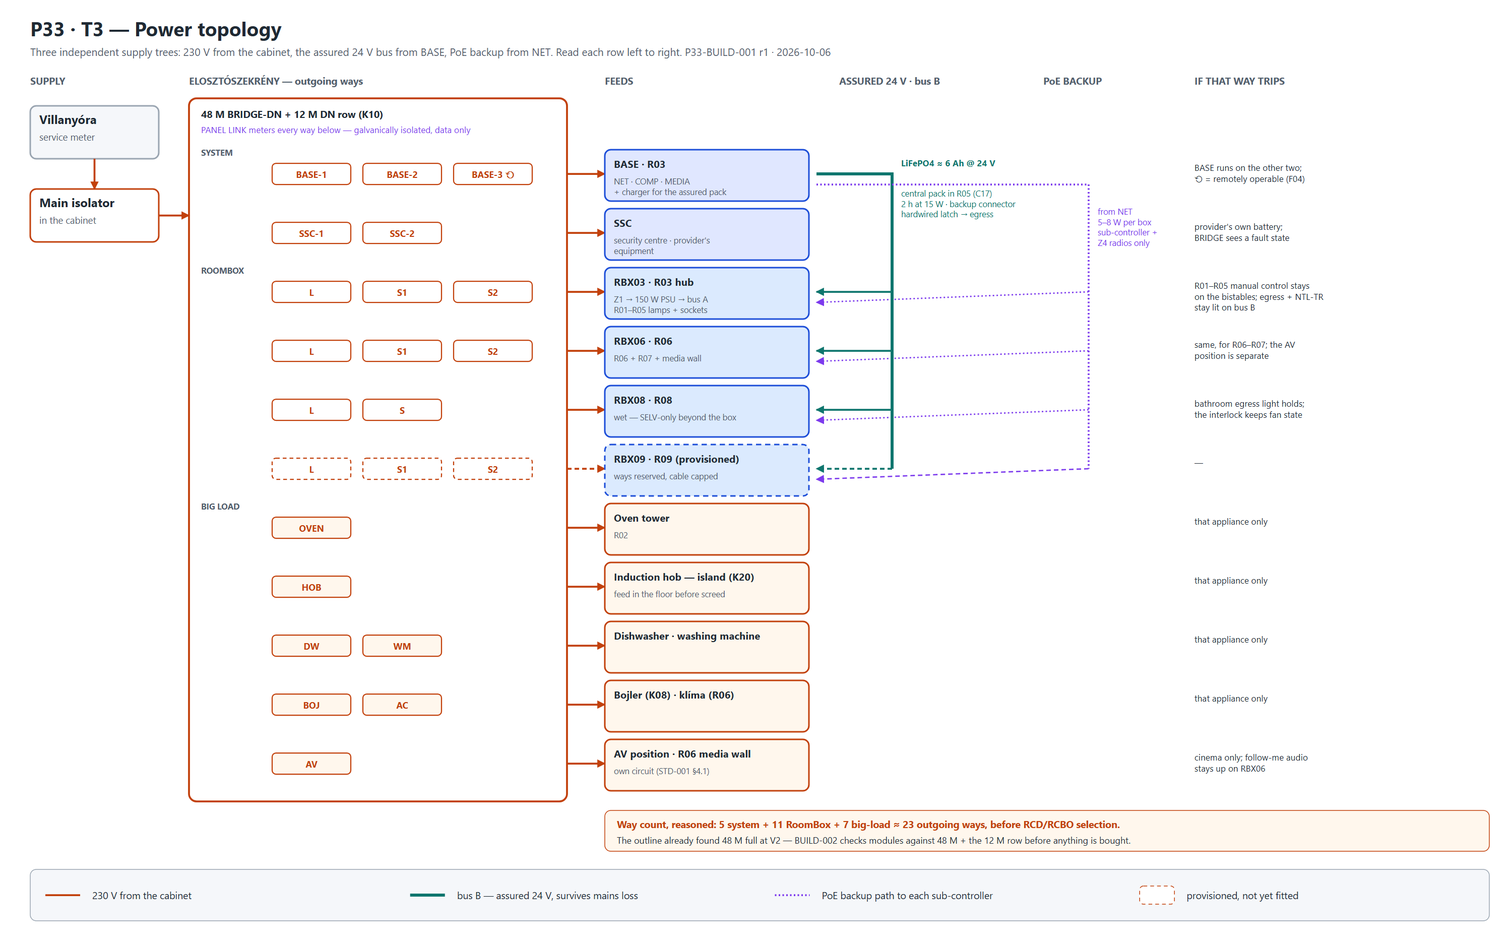
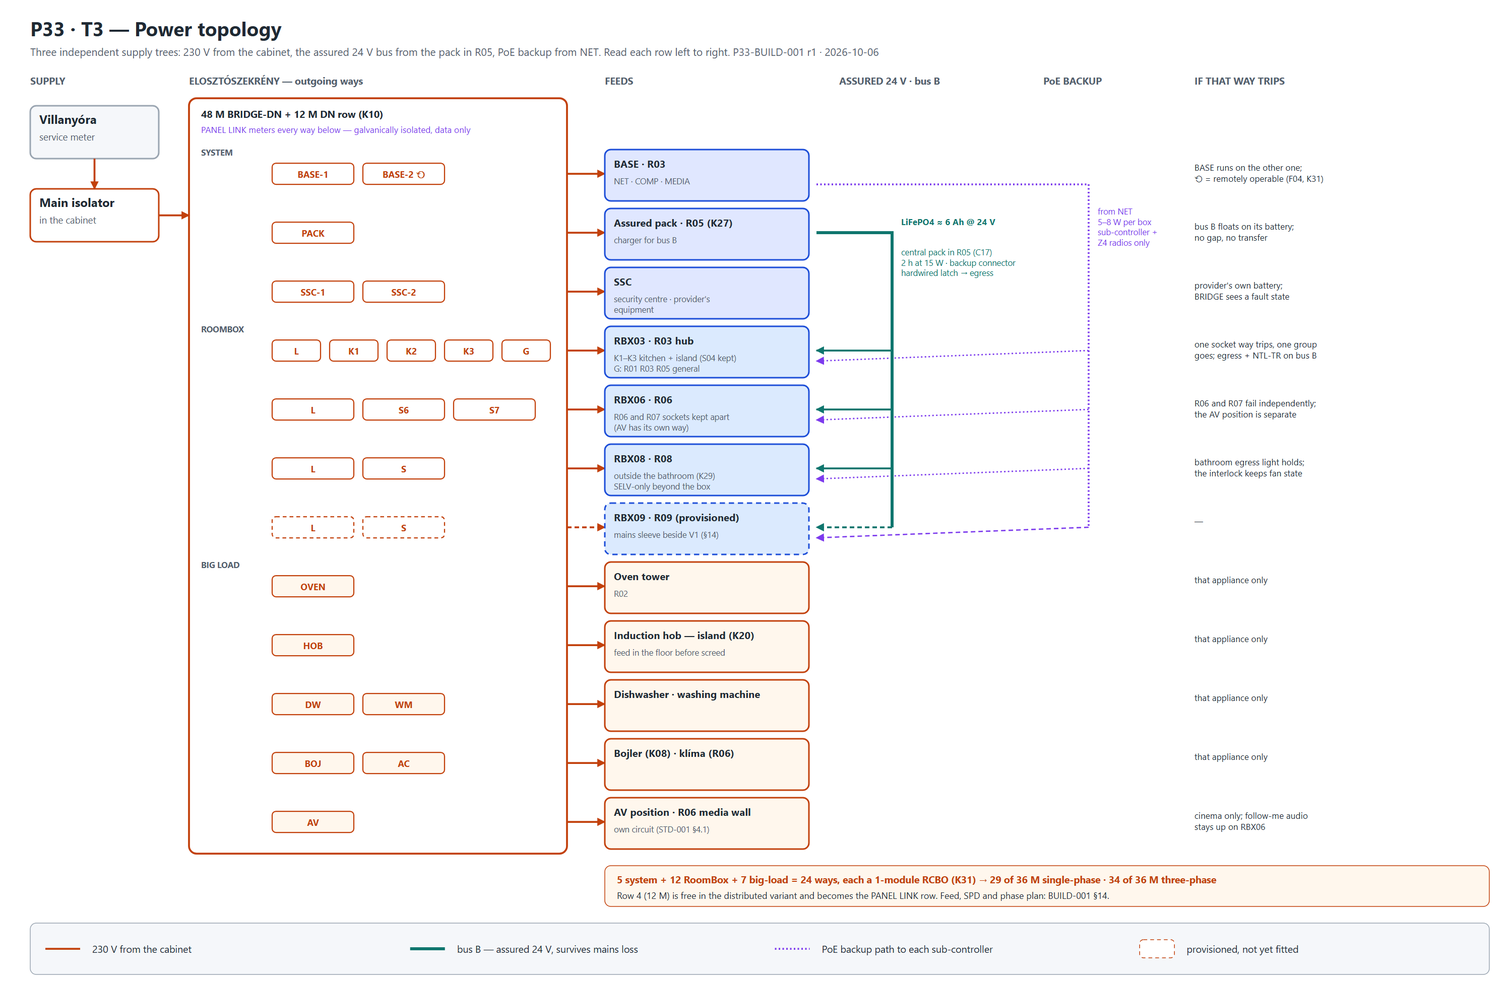
BRIDGE: P33 cabinet and supply, RBX06/RBX08 positions, Thread BR
The cabinet fits without a second enclosure. Row 4 of the 48-module
design held the centralised-variant core, which a distributed house
does not need, so it becomes the PANEL LINK row.

With BASE on two ways, a 1-module RCBO on every way, and S04's doubling
kept only for the kitchen worktop and island, P33 needs 24 ways:
29 of 36 modules on single phase, 34 three-phase-ready (K31).

The supply is calculated for both cases (K32): 1x32 A works only with
load management, and three-phase is the long-term target. A MAINS
sleeve is added beside the V1 riser.

RBX06 moves to the R06/R07 partition (K28) and RBX08 to the walkway
face of the new bathroom wall (K29). The third Thread border router
goes to RBX06 (K30).

diff --git a/BRIDGE/08_builds/src/p33-topology.js b/BRIDGE/08_builds/src/p33-topology.js
@@ -54,7 +54,7 @@ function t1() {
 
   // ---- cabinet ----
   s += node(290, 140, 260, 440, 'ELOSZTÓSZEKRÉNY',
-    'R01 · 48 M BRIDGE-DN\n+ one free 12 M row, or an equal\n   flush DN box beside it (K10)\n   → PANEL LINK metering\n      (gateway, addr 150)\n\noutgoing:\n· 3 system circuits → BASE\n   (one remotely operable, F04)\n· room circuits per RoomBox\n· 2 × SSC\n· AV position circuit\n· big loads, direct\n· socket circuits doubled (S04)',
+    'R01 · 48 M BRIDGE-DN\n+ one free 12 M row, or an equal\n   flush DN box beside it (K10)\n   → PANEL LINK metering\n      (gateway, addr 150)\n\noutgoing:\n· 2 system circuits → BASE\n   (one remotely operable, F04)\n· room circuits per RoomBox\n· 2 × SSC\n· AV position circuit\n· big loads, direct\n· S04 doubling kept where the\n   load is (kitchen), trimmed\n   elsewhere (K31)',
     { fill: '#fff', stroke: C.mains, bsize: 12.5 });
 
   // ---- BASE ----
@@ -70,7 +70,7 @@ function t1() {
 
   // ---- branches ----
   s += node(1290, 140, 260, 110, 'RBX06 · RB-H', 'R06 · addr 6 · chain node\nserves R06 + R07 (K07)\n+ ARMs to the media wall', { bsize: 12.5 });
-  s += node(1290, 300, 260, 90, 'RBX08 · RB-E/W', 'R08 · addr 8 · terminal\nIP44 · SELV-only beyond', { fill: C.boxE, bsize: 12.5 });
+  s += node(1290, 300, 260, 90, 'RBX08 · RB-E/W', 'R08 · addr 8 · terminal\noutside the bathroom (K29)', { fill: C.boxE, bsize: 12.5 });
   s += node(1290, 450, 260, 110, 'RBX09 · RB-M', 'R09 · addr 9 · terminal\nprovisioned now,\nfitted with the upper floor', { fill: C.future, dash: true, bsize: 12.5 });
   s += `<circle cx="1245" cy="505" r="15" fill="#fff" stroke="${C.channel}" stroke-width="3"/><circle cx="1245" cy="505" r="5" fill="${C.channel}"/>`;
   s += label(1205, 545, 'V1 riser\nR05, left side', C.channel, { size: 11 });
@@ -271,19 +271,20 @@ function t3() {
   s += node(40, 140, 170, 70, 'Villanyóra', 'service meter', { fill: C.panel, stroke: C.line });
   s += node(40, 250, 170, 70, 'Main isolator', 'in the cabinet', { fill: '#fff', stroke: C.mains });
   s += wire([[125, 210], [125, 250]], C.mains);
-  s += `<rect x="250" y="130" width="500" height="930" rx="10" fill="#fff" stroke="${C.mains}" stroke-width="2.5"/>`;
+  s += `<rect x="250" y="130" width="500" height="1000" rx="10" fill="#fff" stroke="${C.mains}" stroke-width="2.5"/>`;
   s += wire([[210, 285], [250, 285]], C.mains);
   s += text(266, 156, '48 M BRIDGE-DN  +  12 M DN row (K10)', { size: 13, weight: 700 });
   s += text(266, 176, 'PANEL LINK meters every way below — galvanically isolated, data only', { size: 11.5, color: C.link });
 
   const rows = [
     // [group, ways, feed title, feed body, busB, poe, ifTrips, opts]
-    ['SYSTEM', ['BASE-1', 'BASE-2', 'BASE-3 ⟲'], 'BASE · R03', 'NET · COMP · MEDIA\n+ charger for the assured pack', 'source', 'source', 'BASE runs on the other two;\n⟲ = remotely operable (F04)'],
+    ['SYSTEM', ['BASE-1', 'BASE-2 ⟲'], 'BASE · R03', 'NET · COMP · MEDIA', 'source', 'source', 'BASE runs on the other one;\n⟲ = remotely operable (F04, K31)'],
+    ['SYSTEM', ['PACK'], 'Assured pack · R05 (K27)', 'charger for bus B', 'source', '', 'bus B floats on its battery;\nno gap, no transfer'],
     ['SYSTEM', ['SSC-1', 'SSC-2'], 'SSC', 'security centre · provider\'s\nequipment', '', '', 'provider\'s own battery;\nBRIDGE sees a fault state'],
-    ['ROOMBOX', ['L', 'S1', 'S2'], 'RBX03 · R03 hub', 'Z1 → 150 W PSU → bus A\nR01–R05 lamps + sockets', 'yes', 'yes', 'R01–R05 manual control stays\non the bistables; egress + NTL-TR\nstay lit on bus B'],
-    ['ROOMBOX', ['L', 'S1', 'S2'], 'RBX06 · R06', 'R06 + R07 + media wall', 'yes', 'yes', 'same, for R06–R07; the AV\nposition is separate'],
-    ['ROOMBOX', ['L', 'S'], 'RBX08 · R08', 'wet — SELV-only beyond the box', 'yes', 'yes', 'bathroom egress light holds;\nthe interlock keeps fan state'],
-    ['ROOMBOX', ['L', 'S1', 'S2'], 'RBX09 · R09 (provisioned)', 'ways reserved, cable capped', 'later', 'later', '—'],
+    ['ROOMBOX', ['L', 'K1', 'K2', 'K3', 'G'], 'RBX03 · R03 hub', 'K1–K3 kitchen + island (S04 kept)\nG: R01 R03 R05 general', 'yes', 'yes', 'one socket way trips, one group\ngoes; egress + NTL-TR on bus B'],
+    ['ROOMBOX', ['L', 'S6', 'S7'], 'RBX06 · R06', 'R06 and R07 sockets kept apart\n(AV has its own way)', 'yes', 'yes', 'R06 and R07 fail independently;\nthe AV position is separate'],
+    ['ROOMBOX', ['L', 'S'], 'RBX08 · R08', 'outside the bathroom (K29)\nSELV-only beyond the box', 'yes', 'yes', 'bathroom egress light holds;\nthe interlock keeps fan state'],
+    ['ROOMBOX', ['L', 'S'], 'RBX09 · R09 (provisioned)', 'mains sleeve beside V1 (§14)', 'later', 'later', '—'],
     ['BIG LOAD', ['OVEN'], 'Oven tower', 'R02', '', '', 'that appliance only'],
     ['BIG LOAD', ['HOB'], 'Induction hob — island (K20)', 'feed in the floor before screed', '', '', 'that appliance only'],
     ['BIG LOAD', ['DW', 'WM'], 'Dishwasher · washing machine', '', '', '', 'that appliance only'],
@@ -296,10 +297,11 @@ function t3() {
   rows.forEach(([g, ways, ft, fb, bb, pe, ifT], i) => {
     const y = y0 + i * rh, mid = y + 30, future = /provisioned/.test(ft);
     if (g !== lastGroup) { s += text(266, y + 6, g, { size: 11, weight: 700, color: C.sub }); lastGroup = g; }
+    const step = ways.length > 3 ? 76 : 120, cw = step - 12;
     ways.forEach((w, j) => {
-      const x = 360 + j * 120;
-      s += `<rect x="${x}" y="${mid - 14}" width="104" height="28" rx="5" fill="${g === 'BIG LOAD' ? C.load : '#fff'}" stroke="${C.mains}" stroke-width="1.5"${future ? ' stroke-dasharray="5 4"' : ''}/>` +
-        text(x + 52, mid + 5, w, { size: 12, weight: 700, anchor: 'middle', color: C.mains });
+      const x = 360 + j * step;
+      s += `<rect x="${x}" y="${mid - 14}" width="${cw}" height="28" rx="5" fill="${g === 'BIG LOAD' ? C.load : '#fff'}" stroke="${C.mains}" stroke-width="1.5"${future ? ' stroke-dasharray="5 4"' : ''}/>` +
+        text(x + cw / 2, mid + 5, w, { size: 12, weight: 700, anchor: 'middle', color: C.mains });
     });
     s += wire([[750, mid], [800, mid]], C.mains, { dash: future ? '6 4' : undefined });
     s += node(800, mid - 32, 270, 68, ft, fb, { fill: g === 'BIG LOAD' ? C.load : (g === 'SYSTEM' ? C.base : C.box), stroke: g === 'BIG LOAD' ? C.mains : C.channel, dash: future, tsize: 13.5, bsize: 11 });
@@ -308,26 +310,26 @@ function t3() {
     s += text(1580, mid - 4, ifT, { size: 11.5, color: C.ink });
   });
   // bus B trunk from BASE's pack
-  const yB = y0 + 30, yLast = y0 + 5 * rh + 30;
+  const yB = y0 + rh + 30, yP = y0 + 44, yLast = y0 + 6 * rh + 30;
   s += `<path d="M1080,${yB} L${busX},${yB} L${busX},${yLast}" fill="none" stroke="${BUSB}" stroke-width="4"/>`;
   s += text(1192, yB - 10, 'LiFePO4 ≈ 6 Ah @ 24 V', { size: 11.5, color: BUSB, weight: 700 });
   s += text(1192, yB + 30, 'central pack in R05 (C17)\n2 h at 15 W · backup connector\nhardwired latch → egress', { size: 11, color: BUSB });
   // PoE trunk from NET
-  s += `<path d="M1080,${yB + 14} L${poeX},${yB + 14} L${poeX},${yLast}" fill="none" stroke="${POE}" stroke-width="2.5" stroke-dasharray="2 3"/>`;
-  s += text(1452, yB + 54, 'from NET\n5–8 W per box\nsub-controller +\nZ4 radios only', { size: 11, color: POE });
+  s += `<path d="M1080,${yP} L${poeX},${yP} L${poeX},${yLast}" fill="none" stroke="${POE}" stroke-width="2.5" stroke-dasharray="2 3"/>`;
+  s += text(1452, yP + 40, 'from NET\n5–8 W per box\nsub-controller +\nZ4 radios only', { size: 11, color: POE });
 
-  s += `<rect x="800" y="1072" width="1170" height="54" rx="8" fill="#fff7ed" stroke="${C.mains}"/>`;
-  s += text(816, 1095, 'Way count, reasoned: 5 system + 11 RoomBox + 7 big-load ≈ 23 outgoing ways, before RCD/RCBO selection.', { size: 13, weight: 700, color: C.mains });
-  s += text(816, 1116, 'The outline already found 48 M full at V2 — BUILD-002 checks modules against 48 M + the 12 M row before anything is bought.', { size: 12, color: C.ink });
+  s += `<rect x="800" y="1146" width="1170" height="54" rx="8" fill="#fff7ed" stroke="${C.mains}"/>`;
+  s += text(816, 1169, '5 system + 12 RoomBox + 7 big-load = 24 ways, each a 1-module RCBO (K31) → 29 of 36 M single-phase · 34 of 36 M three-phase', { size: 13, weight: 700, color: C.mains });
+  s += text(816, 1190, 'Row 4 (12 M) is free in the distributed variant and becomes the PANEL LINK row. Feed, SPD and phase plan: BUILD-001 §14.', { size: 12, color: C.ink });
 
-  s += legendBar(40, 1150, 1930, [
+  s += legendBar(40, 1222, 1930, [
     [(x, y) => `<line x1="${x}" y1="${y}" x2="${x + 46}" y2="${y}" stroke="${C.mains}" stroke-width="2.5"/>`, '230 V from the cabinet'],
     [(x, y) => `<line x1="${x}" y1="${y}" x2="${x + 46}" y2="${y}" stroke="#0f766e" stroke-width="4"/>`, 'bus B — assured 24 V, survives mains loss'],
     [(x, y) => `<line x1="${x}" y1="${y}" x2="${x + 46}" y2="${y}" stroke="#7c3aed" stroke-width="2.5" stroke-dasharray="2 3"/>`, 'PoE backup path to each sub-controller'],
     [(x, y) => `<rect x="${x}" y="${y - 12}" width="46" height="24" rx="5" fill="#fff" stroke="${C.mains}" stroke-dasharray="5 4"/>`, 'provisioned, not yet fitted'],
   ], 4);
-  return frame(2000, 1250, 'P33 · T3 — Power topology',
-    `Three independent supply trees: 230 V from the cabinet, the assured 24 V bus from BASE, PoE backup from NET. Read each row left to right.   ${REVTAG}`, s);
+  return frame(2000, 1300, 'P33 · T3 — Power topology',
+    `Three independent supply trees: 230 V from the cabinet, the assured 24 V bus from the pack in R05, PoE backup from NET. Read each row left to right.   ${REVTAG}`, s);
 }
 
 // ===========================================================================
@@ -560,5 +562,5 @@ emit('P33-T1_system-spine', t1(), 2000, 1250);
 emit('P33-T2_channel-lanes', t2(), 2000, 1140);
 emit('P33-T8_failure-domains', t8(), 2000, 1170);
 emit('P33-T5_presence-graph', t5(), 2000, 1220);
-emit('P33-T3_power', t3(), 2000, 1250);
+emit('P33-T3_power', t3(), 2000, 1300);
 for (const b of Object.keys(TREES)) { const { svg, h } = t10(b); emit(`P33-T10_${b}`, svg, 2000, h); }

diff --git a/BRIDGE/08_builds/P33-BUILD-001_Topology-and-Composition.md b/BRIDGE/08_builds/P33-BUILD-001_Topology-and-Composition.md
@@ -104,7 +104,7 @@ redundancy. In P33, RoomBox 1 *is* stacked on BASE, so all three would sit withi
 each other — the redundancy STD-005 asked for, without the spatial diversity that made it worth
 having.
 
-**Correction for this instance:** two border routers at BASE, the third at **RBX06** — the far end
+**Correction for this instance, decided (K30):** two border routers at BASE, the third at **RBX06** — the far end
 of the ground floor and directly under the void, so it also reaches up towards the upper floor
 before RBX09 exists. When the upper floor is fitted, review whether it moves to RBX09.
 
@@ -122,7 +122,7 @@ Class and role. Products in BUILD-002.
 | **COMP** | Home Assistant as a client · **arbiter as its own service** · MQTT broker · ESPHome · BRIDGE_LINK master with **4 × RS-485**, one channel per RoomBox · two Thread border routers (§3.3) | G06 · STD-004 §3 · STD-005 §5 |
 | **MEDIA** | **Full pack**: low-power x86 with hardware video · NVMe system + library bays · **NVR on its own surveillance disk** · Snapcast server · media server · 2.5 GbE / SFP+ uplink | H01 · STD-007 §7 |
 | **Assured supply** | central 24 V bus B pack + **backup connector slot** — **in R05 beside V1, not in this joinery** (§12.1) | C17 |
-| **Supply** | 3 system circuits from the cabinet, one through a remotely operable breaker | F04 · STD-001 §4.2 |
+| **Supply** | 2 system circuits from the cabinet, one through a remotely operable breaker (K31) | F04 · STD-001 §4.2 |
 
 **The protocol masters attach to the network, never by USB to COMP** (ARCH-002 §4.2). That is
 what lets MEDIA leave this joinery later — K10 says it may — without a redesign.
@@ -131,7 +131,7 @@ what lets MEDIA leave this joinery later — K10 says it may — without a redes
 
 | | RBX03 | RBX06 | RBX08 | RBX09 |
 |---|---|---|---|---|
-| **Class** | RB-H 600 × 600 × 120 | RB-H 600 × 600 × 120 | RB-E/W, RB-M envelope, IP44 | RB-M 400 × 500 × 110 |
+| **Class** | RB-H 600 × 600 × 120 | RB-H 600 × 600 × 120 | RB-E/W, RB-M envelope — outside the bathroom (K29), so no IP44 | RB-M 400 × 500 × 110 |
 | **Role** | hub · ZT for 3 runs | chain node · media wall | terminal, wet | terminal, upper floor |
 | **PSU** | 150 W, 24 V rail | 150 W | per RB-M | per RB-M |
 | **Room switch** | wide-DC 12–57 V, PoE+ injecting, 8-port | same, ≈ 63 W injection (2 APs + panel + camera position) | 5-port | 5–8-port |
@@ -250,15 +250,13 @@ doctrine stated per circuit.
 - **No single cabinet way removes control of a room.** A RoomBox's lighting way trips; its lamps
   go dark, but its sub-controller stays alive on PoE and its egress light and NTL-TR stay alive on
   bus B. The room can still report what happened.
-- **BASE has three ways and needs one.** The third is remotely operable (F04), so the system can be
-  power-cycled without reaching the cabinet.
+- **BASE has two ways and needs one (K31).** The second is remotely operable (F04), so the system
+  can be power-cycled without reaching the cabinet.
 - **Big loads never meet a RoomBox.** Their failures are their own.
 
-**Way count, reasoned rather than counted against a schedule:** 5 system + 11 RoomBox (lighting
-and doubled sockets, S04) + 7 big-load ≈ **23 outgoing ways**, before RCD/RCBO selection. The
-outline already found the 48-module cabinet full at V2. **The 12-module DN row of K10 is for
-PANEL LINK, not for these ways**, so BUILD-002's first cabinet task is a module count against
-both.
+**Way count: 24**, each a one-module RCBO — 5 system, 12 RoomBox, 7 big-load. They fit rows 1–3
+on either supply, and row 4 is the PANEL LINK row. The derivation, the S04 trim and the supply
+calculation are in **§14**.
 
 > **A gap T3 exposed, now closed: the assured bus rides C4b (K25).** Bus B runs from the central
 > pack to every RoomBox, but the CHANNEL had no conduit for it — LV is "made in each RoomBox" and
@@ -375,14 +373,113 @@ once the media wall's position is known. T4 and T9 can wait for BUILD-002.
 
 ---
 
-## 14. Open
+## 14. The cabinet and the supply (K31, K32)
+
+### 14.1 Where the shortage came from — and why most of it is not P33's
+
+BRIDGE-DN V2 fills its 48 modules (4 rows × 12) like this:
+
+- **Rows 1–3:** feed, surge protection, one 25 A 30 mA RCD in front of everything, 14 circuits
+  and a modular bell.
+- **Row 4:** the **centralised-variant core** — 5 V supply, Raspberry Pi 5, USB hub with the
+  Zigbee coordinator, a three-phase energy meter and a two-channel lighting switch.
+
+**P33 is the distributed variant** (C2-T: it has a bathroom and bedrooms on another floor). COMP
+lives in BASE, the coordinator sits on the network at NET, and switching happens in the RoomBoxes.
+**So row 4 is free, and it becomes the 12-module PANEL LINK row of K10** — inside the existing
+cabinet, with no extension box. The shortage that the outline found was the centralised variant's,
+not this house's.
+
+### 14.2 The three reductions taken
+
+| | Reduction | Effect |
+|---|---|---|
+| **c** | **BASE on two system ways, not three** — F04 allows two to three; the remotely operable one is kept | −1 way |
+| **a** | **A one-module RCBO on every way**, replacing grouped RCDs | no RCD modules at all; **one earth fault trips one circuit**, which is T3's and T8's failure-domain logic carried into the cabinet. It also retires V2's single 25 A RCD, which no longer suits a cabinet that feeds an induction hob, an oven and a water heater |
+| **S04** | **Doubling trimmed by tolerance** — kept where the load concentrates, dropped where a single 1.5 mm² circuit is enough | −6 ways against strict doubling, below |
+
+**The S04 trim, by tolerance.** Strict doubling of every conventional socket circuit would give
+**14** socket ways. Ranked by how well each group tolerates a single 1.5 mm² circuit:
+
+| Group | Load profile | Tolerance | Ways |
+|---|---|---|---|
+| **Kitchen worktop A, B + the island** (R02, R03) | kettle, microwave, coffee machine, toaster — high and simultaneous | **lowest — doubling kept**: two worktop runs and the island on its own | **3** |
+| R08 fürdő | hairdryer ≈ 2 kW, one user | medium — fits one circuit | 1 |
+| R07 szoba | chargers, bedside, occasionally a heater | high. **Kept separate from R06** for failure isolation, not for load | 1 |
+| R06 nappali | the AV position has its own way; the rest is lamps, chargers, a vacuum | high | 1 |
+| R01 + R03 general + R05 | vacuum, chargers | high | 1 |
+| Upper floor (R09–R13) | provisioned | review at the upper renovation | 1 |
+| | | | **8 of 14** |
+
+> **A correction to my own figures.** T3's first version counted two socket ways per RoomBox and
+> labelled that "doubled sockets". That was already an unstated trim — strict S04 is 14 socket
+> ways, not 7. The trimmed plan above is 8, and it is stated.
+
+**Reduction b was not taken**, so the upper floor keeps its own cabinet ways (lighting + one
+socket). **The gap it exposed remains regardless: the V1 riser carries only the CHANNEL.** Those
+two circuits, and any future upper-floor big load — the *klíma ?* on the upper sheet — need a
+**separate MAINS sleeve through the slab beside V1**, kept apart from the bundle and fire-stopped.
+Specify **two M25 plus one empty M25**, laid with the riser now.
+
+### 14.3 The way count
+
+| Group | Ways |
+|---|---|
+| System — BASE ×2 (one remotely operable), assured pack (K27), SSC ×2 | 5 |
+| RoomBox lighting — RBX03, RBX06, RBX08, RBX09 | 4 |
+| RoomBox sockets — the trimmed plan above | 8 |
+| Big loads — oven tower, induction hob, dishwasher, washing machine, bojler, klíma, AV position | 7 |
+| | **24** |
+
+### 14.4 The supply, both cases (K32)
+
+**Connected load, reasoned on typical ratings** — BUILD-002 replaces each with a nameplate:
+
+| Load | kW | | Load | kW |
+|---|---|---|---|---|
+| Induction hob, 4 zones | 7.4 | | Klíma | 1.2 |
+| Oven tower | 3.5 | | Kitchen sockets (kettle, microwave, coffee) | 3.0 |
+| Washing machine | 2.2 | | Other sockets | 2.0 |
+| Dishwasher | 2.0 | | AV position | 0.5 |
+| Bojler | 2.0 | | Lighting · BRIDGE (BASE, 4 boxes, pack) | 0.5 · 0.3 |
+| | | | **Connected** | **≈ 24.6** |
+
+**A realistic evening peak** — hob 5.0 (two zones boosting), oven 3.5, kettle 2.2, dishwasher
+heating 2.0, bojler 2.0, klíma 1.2, base load 1.5 — is **≈ 17.4 kW**.
+
+| | **Single-phase, 1 × 32 A — interim** | **Three-phase — long term** |
+|---|---|---|
+| Capacity | **7.4 kW** | **3 × 25 A = 17.3 kW** · 3 × 32 A = 22 kW |
+| Verdict | **Works only with load management.** The hob limited to 3.7 kW plus the oven is already 7.2 kW — the whole supply. Rules: **hob power limit set to 16 A** (a setup option on most induction hobs) · **bojler on the *vezérelt* off-peak tariff**, or shed by a cabinet contactor · dishwasher and washer on **delay start** outside cooking hours. **Hob, oven and a kettle together will trip it** — accepted as an interim constraint | **3 × 25 A carries the realistic peak** with the same delay-start habit. **3 × 32 A removes every constraint** and leaves room for a heat pump or an EV charger. Recommendation: **3 × 32 A** if the DSO's upgrade fee is acceptable, otherwise 3 × 25 A |
+| Phase plan | — | **L1** hob A · bojler · lighting + BRIDGE · **L2** hob B · washing machine · klíma · **L3** oven · dishwasher · kitchen sockets — each ≈ 28–33 A only if everything coincides, ≈ 20–25 A in practice |
+| Hob | one 1P+N RCBO, 16–20 A, 1 module | **2L + 2N connection**, two 1P+N RCBOs on L1 and L2 — a shared-neutral 2L+1N connection would trip two separate RCBOs |
+| Feed | 2P main switch (2) · SPD 1P+N (2) · bell (1) | **4P main switch (4) · SPD 3P+N (4)** · bell (1) |
+| **Modules, rows 1–3** | **5 + 24 = 29 of 36** (+ 2 if the bojler is shed by contactor) | **9 + 25 = 34 of 36** |
+
+**Recommendation: build the cabinet three-phase-ready from day one** — the 4-pole main switch, the
+three-phase SPD and three-phase comb busbars, with every circuit labelled with its target phase. It
+costs four modules now and makes the upgrade a supply change with no rework inside the cabinet.
+**How the interim single-phase supply is landed is the installer's call under the DSO's rules (A08)**;
+this document does not prescribe it. At 34 of 36, the three-phase layout leaves two spare modules;
+moving the modular bell out of the cabinet makes it three.
+
+**BRIDGE can do the load management, within one rule.** PANEL LINK meters the main feed, so the
+arbiter knows when the supply nears its limit and can defer a dishwasher or a washer through their
+own interfaces. **Switching a big load off still needs a certified contactor in the cabinet**
+(STD-001 §4) — software never sheds high current directly.
+
+---
+
+## 15. Open
 
 | | Item | Blocks |
 |---|---|---|
-| 1 | **RBX08's wall** in the redrawn bathroom, outside zones 0–2 | CH-8's route |
+| 1 | ~~RBX08's wall~~ — **decided (K29):** the walkway face of the new bathroom wall, outside the wet room. The new wall is built **≈ 150 mm** to take the 110 mm box; IP44 is no longer needed, and the room beyond stays SELV-only. **Check the washbasin's pipe runs in that wall on site** | — |
 | 2 | **The media wall's position** in R06 | RBX06's exact wall · the AV position · C2's route |
-| 3 | **RBX06's wall** — candidate on the R06 face of the masonry spine beside R07 (drawn with "?" on the floor sheet) | CH-6 |
+| 3 | ~~RBX06's wall~~ — **decided (K28):** the R06 face of the R06 / R07 partition, at its right end, the box body recessed into R07's wardrobe void. The partition is thin, so the wardrobe takes the depth. An IR blaster, if wanted, is its own endpoint at the media wall, not a reason to move the box | — |
 | 4 | **Product selection** and the **per-ARM schedule** | BUILD-002 |
 | 5 | **§3.2's ΔT** on RBX03 above a loaded BASE | commissioning, not design |
-| 6 | **Cabinet module count** — ≈ 23 ways against 48 M (§9) | the cabinet |
+| 6 | ~~Cabinet module count~~ — **decided (K31, K32), §14**: 24 ways, 29 or 34 of 36 modules; row 4 is the PANEL LINK row | — |
+| 6a | **The supply**: which three-phase rating, and when — the DSO's fee decides 3 × 25 A or 3 × 32 A | the head of the cabinet |
+| 6b | **The MAINS sleeve beside V1** — two M25 plus one empty M25, laid with the riser | the upper floor's circuits |
 | 7 | **C23 / C23B** lighting types · **H10** Snapcast placement · **D9** security provider | unchanged |

diff --git a/BRIDGE/BRIDGE-OUTLINE-001_General-Outline.md b/BRIDGE/BRIDGE-OUTLINE-001_General-Outline.md
@@ -239,11 +239,13 @@ penetration.
 
 ### 4.5 Three consequences of the answers worth flagging
 
-**Doubled socket circuits grow the cabinet.** S04's note — *"as a preferred standard we double the
-circuit of power socket to keep the 1,5 mm² cable type"* — is a sound rule and it doubles MCB ways
-and M25 conduits for sockets. **The 48-module cabinet is already full at V2.** The second enclosure
-already planned for PANEL LINK (B20, RB-E/T) absorbs this, but it is now **required rather than
-optional**, and it should be sized for the doubled circuit count before it is bought.
+**The cabinet fits after all (K31, K32).** S04 doubles socket circuits to keep 1.5 mm² cable, and
+the 48-module cabinet was full at V2 — but V2's fourth row holds the **centralised** variant's
+core, which a distributed house like P33 does not need. That row becomes the PANEL LINK row. With
+**one-module RCBOs on every way**, BASE on two system ways, and S04's doubling **kept only where the
+load concentrates** (the kitchen worktop and island), the house needs **24 ways: 29 of 36 modules
+on single phase, 34 of 36 three-phase-ready.** No second enclosure. Derivation and the supply
+calculation for both cases: `P33-BUILD-001` §14. *This reverses r2's "second enclosure required".*
 
 **The hob is induction, on the island (K20).** S06 omitted it; the plan put it in the island. It
 takes its own big-load circuit from the cabinet to the island, never through a RoomBox, and the
